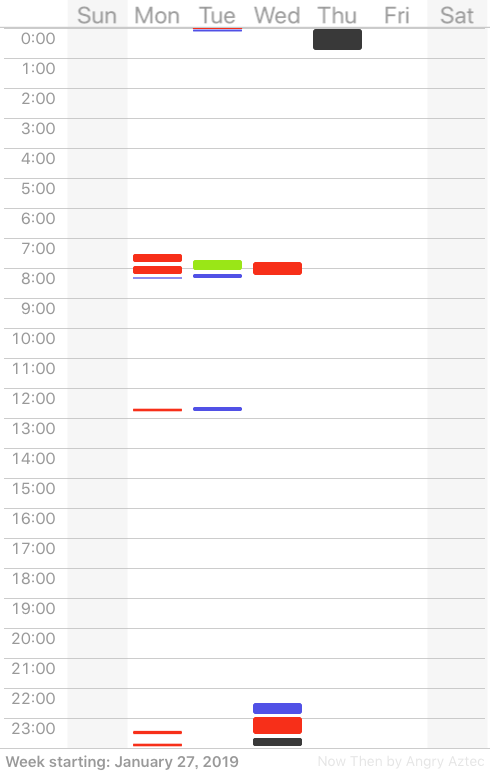
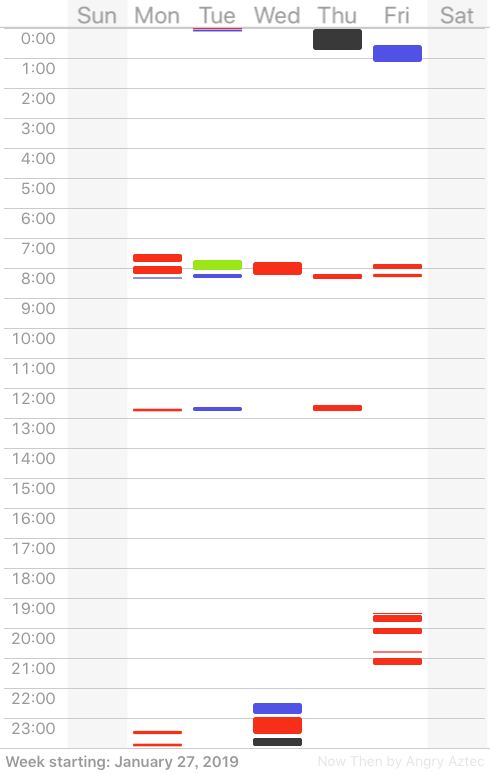
week2 plan added.

diff --git a/content/commitment/2019/week11.md b/content/commitment/2019/week11.md
@@ -3,7 +3,7 @@ date = "2019-01-26T18:21:58+09:00"
 title = "1／12 週目 (2019/1 - 2019/4)"
 tags = ["commitment"]
 description = "今週の目標を達成できるか、今後を占う重要な第１週目のスタートです。  "
-banner = "images/commitment/IMG_0503.jpg"
+banner = "images/commitment/cover.jpg"
 author = "taiichi.igawa"
 type = "post"
 +++
@@ -33,7 +33,7 @@ type = "post"
 ## 今週の実績
 水曜日時点で今のところ予定通り
 
-![途中経過](/images/commitment/week11_record.JPG)
+![実績](/images/commitment/week11_done.jpeg)
 
 月曜日から水曜日までの勉強時間はこんな感じです。
 

diff --git a/themes/hugo-icarus-theme/archetypes/commitment.md b/themes/hugo-icarus-theme/archetypes/commitment.md
@@ -3,7 +3,7 @@ date = "{{ .Date }}"
 title = "?／12 週目 (2019/1 - 2019/4)"
 tags = ["commitment"]
 description = "xxxxxxxxxxxxxxxxxxxxx"
-banner = "images/commitment/IMG_0503.jpg"
+banner = "images/commitment/cover.jpg"
 author = "taiichi.igawa"
 type = "post"
 +++
@@ -23,11 +23,11 @@ type = "post"
 
 ## 今週の計画
 
-![実績](/images/commitment/week?_plan.jpeg)
+![計画](/images/commitment/week1?_plan.jpeg)
 
 ## 今週の実績
 <!--
-![実績](/images/commitment/week?_plan.jpeg)
+![実績](/images/commitment/week1?_done.jpeg)
 -->
 
 ## まとめ

diff --git a/content/commitment/2019/week12.md b/content/commitment/2019/week12.md
@@ -2,7 +2,7 @@
 date = "2019-02-03T19:31:29+09:00"
 title = "2／12 週目 (2019/1 - 2019/4)"
 tags = ["commitment"]
-banner = "images/commitment/IMG_0503.jpg"
+banner = "images/commitment/cover.jpg"
 author = "taiichi.igawa"
 type = "post"
 +++
@@ -22,11 +22,11 @@ type = "post"
 
 ## 今週の計画
 
-![実績](/images/commitment/week2_plan.jpeg)
+![計画](/images/commitment/week12_plan.jpeg)
 
 ## 今週の実績
 <!--
-![実績](/images/commitment/week2_plan.jpeg)
+![実績](/images/commitment/week12_plan.jpeg)
 -->
 
 ## まとめ

diff --git a/content/commitment/2019/plan.md b/content/commitment/2019/plan.md
@@ -3,7 +3,7 @@ title = "パブリックコミットメント"
 date = "2019-01-20T14:49:37+09:00"
 description = "達成したいことの確率を上げるために、公言します。"
 tags = ["commitment"]
-banner = "images/commitment/IMG_0503.jpg"
+banner = "images/commitment/cover.jpg"
 author = "taiichi.igawa"
 type = "post"
 +++
